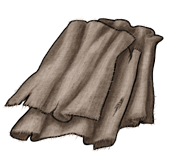
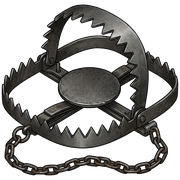
Замена иконки капкана на аутентичный стальной охотничий капкан

diff --git a/game.js b/game.js
@@ -1,6 +1,6 @@
 /* ==========================================================================
    ИГРОВОЙ ДВИЖОК: ТЕКСТОВАЯ RPG «ЛАГЕРЬ ЗАРЯ»
-   Собрано автоматически из src/ (2026-11-05T19:52:57.589Z)
+   Собрано автоматически из src/ (2026-11-05T20:01:34.272Z)
    Не редактируйте этот файл вручную — вносите изменения в файлы src/
    ========================================================================== */
 
@@ -33,7 +33,7 @@ const Game = (() => {
 
     // Инструменты и оружие
     rod: { id: 'rod', name: 'Самодельная удочка', type: 'tool', icon: 'assets/images/fishing_rod.png', weight: 0.8, desc: 'Гибкое удилище с леской и крючком из булавки.' },
-    trap: { id: 'trap', name: 'Охотничий капкан', type: 'tool', icon: 'assets/images/trapie.png', weight: 1.5, desc: 'Стальной капкан на мелкую и среднюю дичь.' },
+    trap: { id: 'trap', name: 'Охотничий капкан', type: 'tool', icon: 'assets/images/trap.png', weight: 1.5, desc: 'Стальной капкан на мелкую и среднюю дичь.' },
     knife: { id: 'knife', name: 'Охотничий нож', type: 'tool', icon: 'assets/images/steel_knife.png', weight: 0.4, desc: 'Острый нож из советской стали. Незаменим в лесу.' },
     torch: { id: 'torch', name: 'Смоляной факел', type: 'tool', icon: 'assets/images/torch.png', weight: 0.5, desc: 'Яркий факел из сосновых лучин и проволоки. Разгоняет тьму и отпугивает диких зверей.' },
     spear: { id: 'spear', name: 'Охотничье копьё', type: 'tool', icon: 'assets/images/iron_spear.png', weight: 1.2, desc: 'Берёзовое древко с наконечником из ножа и проволоки. Оружие ближнего боя.' },
@@ -168,7 +168,7 @@ const Game = (() => {
       isCrafted: (s) => !!s.hasDog || !!s.questFlags?.dog_house_built
     },
     {
-      id: 'craft_trap', station: 'bench', name: 'Сколотить капкан', icon: 'assets/images/trapie.png',
+      id: 'craft_trap', station: 'bench', name: 'Сколотить капкан', icon: 'assets/images/trap.png',
       cost: { scrap: 2, wire: 1 }, result: { trap: 1 }, energy: 20, timeMin: 45,
       desc: 'Ловушка для добычи мяса и ценных шкур в тайге.'
     },

diff --git a/src/data/items.js b/src/data/items.js
@@ -24,7 +24,7 @@
 
     // Инструменты и оружие
     rod: { id: 'rod', name: 'Самодельная удочка', type: 'tool', icon: 'assets/images/fishing_rod.png', weight: 0.8, desc: 'Гибкое удилище с леской и крючком из булавки.' },
-    trap: { id: 'trap', name: 'Охотничий капкан', type: 'tool', icon: 'assets/images/trapie.png', weight: 1.5, desc: 'Стальной капкан на мелкую и среднюю дичь.' },
+    trap: { id: 'trap', name: 'Охотничий капкан', type: 'tool', icon: 'assets/images/trap.png', weight: 1.5, desc: 'Стальной капкан на мелкую и среднюю дичь.' },
     knife: { id: 'knife', name: 'Охотничий нож', type: 'tool', icon: 'assets/images/steel_knife.png', weight: 0.4, desc: 'Острый нож из советской стали. Незаменим в лесу.' },
     torch: { id: 'torch', name: 'Смоляной факел', type: 'tool', icon: 'assets/images/torch.png', weight: 0.5, desc: 'Яркий факел из сосновых лучин и проволоки. Разгоняет тьму и отпугивает диких зверей.' },
     spear: { id: 'spear', name: 'Охотничье копьё', type: 'tool', icon: 'assets/images/iron_spear.png', weight: 1.2, desc: 'Берёзовое древко с наконечником из ножа и проволоки. Оружие ближнего боя.' },

diff --git a/src/data/recipes.js b/src/data/recipes.js
@@ -79,7 +79,7 @@
       isCrafted: (s) => !!s.hasDog || !!s.questFlags?.dog_house_built
     },
     {
-      id: 'craft_trap', station: 'bench', name: 'Сколотить капкан', icon: 'assets/images/trapie.png',
+      id: 'craft_trap', station: 'bench', name: 'Сколотить капкан', icon: 'assets/images/trap.png',
       cost: { scrap: 2, wire: 1 }, result: { trap: 1 }, energy: 20, timeMin: 45,
       desc: 'Ловушка для добычи мяса и ценных шкур в тайге.'
     },
